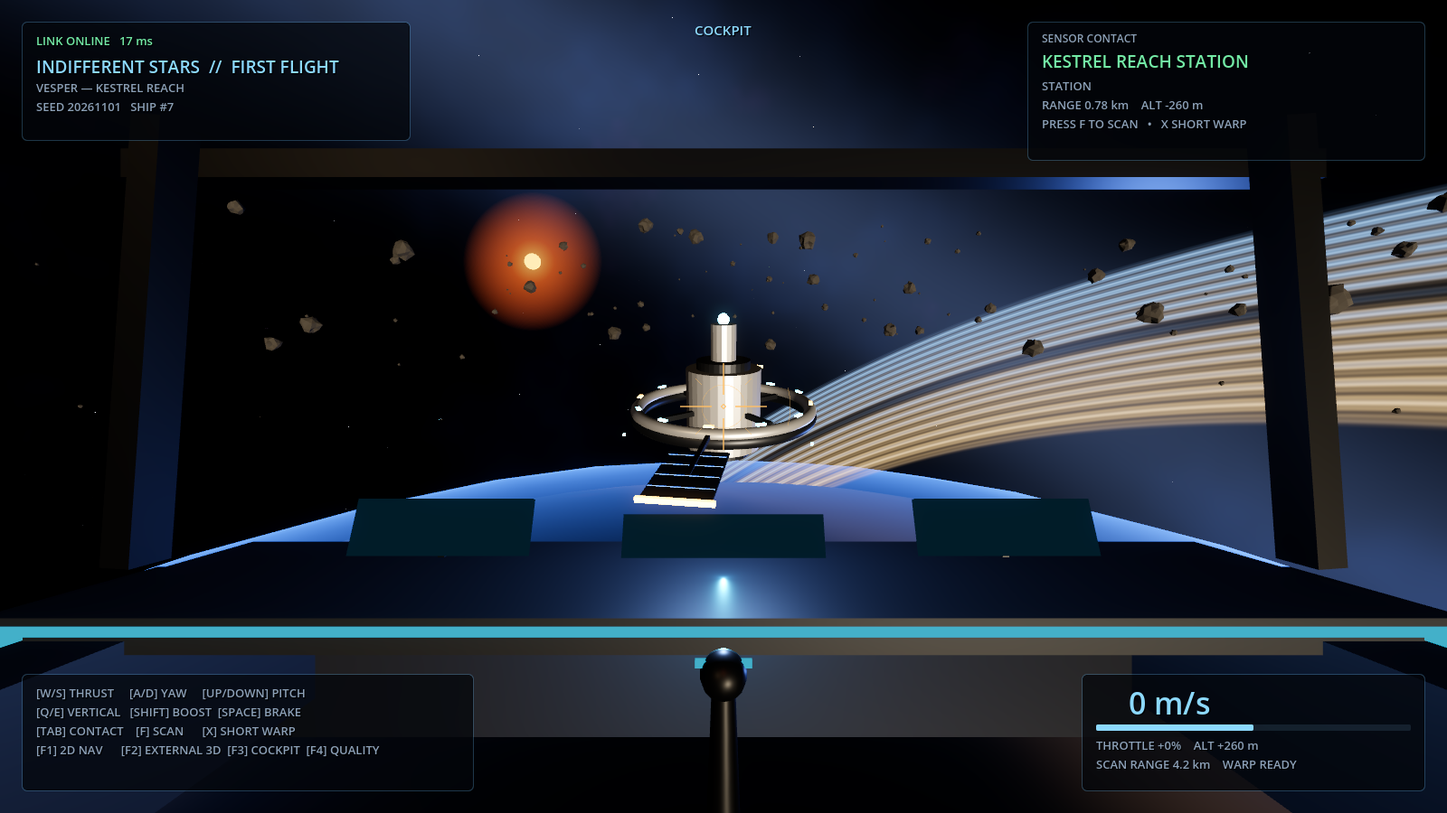
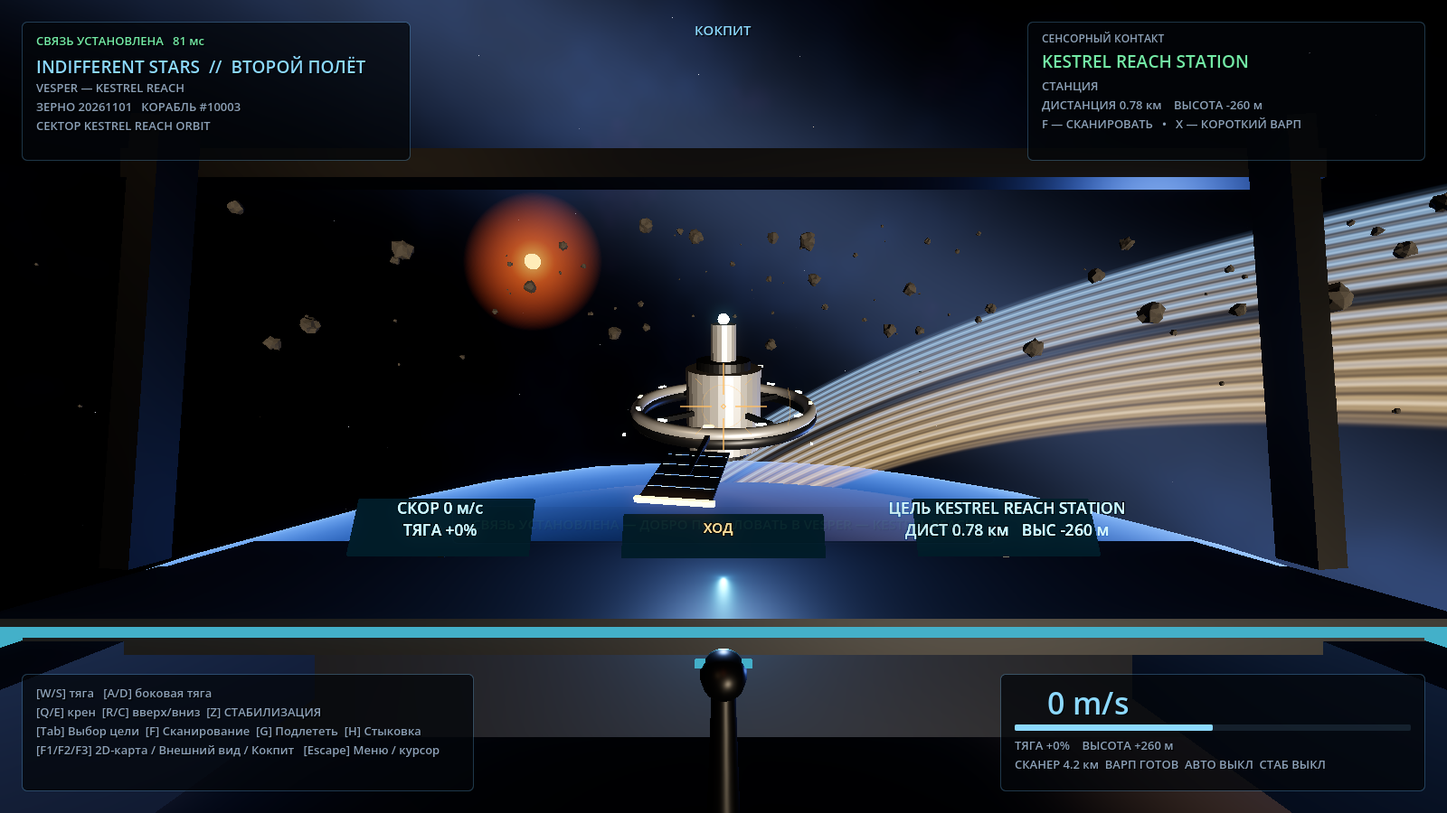
docs: describe Second Flight, trade, sectors and verification

diff --git a/docs/ARCHITECTURE.md b/docs/ARCHITECTURE.md
@@ -1,6 +1,6 @@
 # Indifferent Stars — техническая архитектура
 
-**Статус:** описывает фактическую реализацию M0 (First Flight) и направления развития.
+**Статус:** описывает фактическую реализацию M0 (Second Flight) и направления развития.
 Читать вместе с [GAME_DESIGN.md](GAME_DESIGN.md) и [первым заданием](tasks/001-foundation.md).
 
 ## 1. Разделение системы
@@ -30,16 +30,16 @@
 
 ## 2. Воспроизводимый цикл
 
-Сервер получает **намерения** (тяга, поворот, выбор цели, сканирование, варп), валидирует их и
-обновляет состояние по фиксированному таймеру **20 тиков/с**. Снимки отправляются **20 раз/с** и
-содержат номер тика, sequence и позицию/ориентацию всех кораблей сектора.
+Сервер получает **намерения** (тяга, поворот, выбор цели, сканирование, варп, сделки), валидирует
+их и обновляет состояние по фиксированному таймеру **20 тиков/с**. Снимки отправляются
+**20 раз/с** и содержат номер тика, sequence и позицию/ориентацию кораблей сектора.
 
 Клиент не отправляет координаты как истину и не интегрирует движение. Позиции интерполируются:
 **0.05 с** задержки для собственного корабля, **0.11 с** для остальных, чтобы сгладить сетевые
 колебания. Полётная модель аркадная: тяга изменяет скорость, без тяги скорость сохраняется;
 тормоз включает противотягу. Предел набора скорости — 260 м/с и 720 м/с на форсаже;
 отключение форсажа само по себе не уменьшает набранную скорость. Орбитальной механики нет.
-Ориентация корабля хранится кватернионом; протокол версии 7 передаёт ориентацию,
+Ориентация корабля хранится кватернионом; протокол версии 8 передаёт ориентацию,
 боковую тягу и крен. Клиент и сервер разных версий несовместимы.
 Включаемый `Z` flight assist ограниченной маневровой тягой гасит боковую и вертикальную
 составляющие скорости относительно носа. При ручной тяге по соответствующей оси она
@@ -56,12 +56,21 @@
 15 м от точки при скорости не выше 3 м/с. До этого автопилот использует обычную физику;
 ручное управление может перехватить сближение, не отменяя разрешения. Пока корабль
 пристыкован, сервер не применяет полётный ввод и запрещает варп. Отстыковка возвращает
-корабль в том же положении. Торговля и интерьеры пока недоступны.
+корабль в том же положении. Торговля доступна только пристыкованному кораблю.
+
+Торговля полностью серверная. Клиент отправляет `TradeRequest` (товар, количество,
+покупка/продажа), сервер проверяет стыковку, баланс, свободный трюм и склад станции,
+затем меняет кредиты, груз и склад и возвращает `TradeResult` с новым `MarketState`.
+Повтор запроса с тем же `RequestId` возвращает сохранённый ответ, поэтому повторная
+UDP-датаграмма не создаёт вторую сделку. Клиент не меняет баланс локально: он только
+показывает ответ сервера. Каталог товаров (`CommodityCatalog`) общий, цены фиксированы,
+трюм — 40 единиц, стартовый баланс — 5 000 кредитов. Сохранений между запусками нет.
 
 ## 3. Координаты и масштаб
 
 Иерархия адресации: **SystemId + SectorId + локальная позиция**. В M0 одна система
-`Vesper — Kestrel Reach` и один локальный сектор `kestrel-reach-orbit`.
+`Vesper — Kestrel Reach` и два смежных сектора в одной локальной системе координат:
+`kestrel-reach-orbit` (станция и ближний пояс) и `kestrel-reach-belt` (плотный пояс в 18 км).
 
 Три уровня координат:
 
@@ -71,8 +80,9 @@
 2. **Локальный сектор** — метры относительно `WorldCatalog.LocalFrameOrigin`, точки на
    орбите станции. В этой системе координат работают станция, астероиды, корабли и NPC;
    жёсткая граница движения отсутствует, дальность варпа — 21 км, сканера — 4.2 км.
-   `LocalFrameOrigin` переводит локальные координаты в системные. Сервер продолжает хранить
-   координаты в метрах `double`; разделение мира на активные области пока не реализовано.
+   `LocalFrameOrigin` переводит локальные координаты в системные. Оба сектора M0 лежат
+   в этом же локальном кадре и различаются центром и радиусом, а не отдельной сценой.
+   Сервер продолжает хранить координаты в метрах `double`.
 3. **Координаты отображения** — Godot `Vector3` (float32) вокруг наблюдателя. Клиент
    выбирает ближайшее начало с шагом 10 км, вычитает его из `double`-снимков до перевода
    в `float` и смещает камеру при смене начала. Проверка длительного полёта в реальном
@@ -93,9 +103,17 @@
 ### Сектора как единицы симуляции
 
 `SectorKind` (`Habitated`, `Planetary`, `Asteroid`, `DeepSpace`, `Unknown`) задаёт характер
-области. Сектор — единица интереса и оптимизации, но не граница мира: переход между
-секторами и межпланетный перелёт проектируются как смена активного сектора, а не загрузка
-отдельной сцены.
+области. `SectorDefinition` хранит id, имя, центр, радиус и статические тела. Сектор —
+единица интереса и оптимизации, но не граница мира: переход между секторами — смена
+активной области, а не загрузка отдельной сцены. Клиент определяет текущий сектор по
+позиции корабля (`SectorAt`) и показывает его в HUD; границы видны в 2D.
+
+Интерес реализован дистанционно и намеренно просто: `GameWorld.BuildSnapshot(viewerId)`
+включает собственный корабль зрителя всегда, а остальные корабли и NPC — только в пределах
+`WorldCatalog.RelevanceRange` (15 км). Сервер кодирует отдельный снимок для каждой сессии.
+Статические тела (астероиды, станция) строятся клиентом из общего каталога целиком: их
+немного, и они не передаются по сети. Это первый шаг к сенсорной модели, а не полноценный
+стриминг геометрии.
 
 ### Уровни путешествия
 
@@ -135,18 +153,23 @@
 
 ## 5. Протокол
 
-Собственный компактный бинарный протокол поверх UDP, версия **7**, без внешних зависимостей.
+Собственный компактный бинарный протокол поверх UDP, версия **8**, без внешних зависимостей.
 
 - `Hello` / `HelloAccepted` / `HelloRejected` — подключение и версия.
 - `Input` — намерения управления, выбранная цель, команды сканирования и варпа.
-- `Snapshot` — тик, sequence, корабли (позиция, ориентация, скорость, тяга, состояние).
+- `Snapshot` — тик, sequence, корабли (позиция, ориентация, скорость, тяга, состояние),
+  отфильтрованные по дистанции интереса для конкретного зрителя.
 - `ScanResult`, `WarpResult` — результат серверной проверки.
+- `DockRequest` / `DockResult` — стыковка и отстыковка.
+- `MarketRequest` / `MarketState` — баланс, трюм и склад станции для игрока.
+- `TradeRequest` / `TradeResult` — покупка и продажа с локализованным ответом.
 - `Disconnect` — явный выход; истёкшие сессии удаляются по таймауту.
 
 Ограничения: максимальный размер пакета, проверка версии, валидация длины и значений полей,
 проверка принадлежности корабля отправителю. Сервер отклоняет неизвестные цели, цели вне
-радиуса сканера (4.2 км), варп вне радиуса (21 км) и варп на кулдауне. Для localhost/LAN
-шифрование и аутентификация не заявляются.
+радиуса сканера (4.2 км), варп вне радиуса (21 км) и варп на кулдауне. Рыночные сообщения
+проверяют количество, известность товара, стыковку, баланс, свободный трюм и склад; размер
+списка товаров ограничен. Для localhost/LAN шифрование и аутентификация не заявляются.
 
 Если снимок не помещается в 1400 байт, сервер отправляет несколько пакетов с одним номером
 тика. Клиент обновляет полученные сущности независимо; потерянный пакет обновится следующим
@@ -167,11 +190,18 @@
 ```
 
 На сервере нет поля «текущий тип камеры». Переключение видов мгновенное и не меняет
-состояние корабля. Ввод, выбор цели, сканирование и варп доступны из любого вида;
+состояние корабля. Ввод, выбор цели, сканирование, варп и торговля доступны из любого вида;
 в 2D дополнительно показаны дистанции, азимуты и высота.
 
-Сенсоры и выбор цели — отдельная логика от камеры. Сейчас клиент видит объекты локального
-сектора; HUD спроектирован так, чтобы позже ограничить информацию по сенсорам.
+Сенсоры и выбор цели — отдельная логика от камеры. Сервер уже фильтрует снимки по дистанции
+интереса, но клиент по-прежнему строит все статические тела каталога. HUD спроектирован так,
+чтобы позже ограничить информацию по сенсорам.
+
+Кокпит — не отдельный режим: это та же камера с процедурным интерьером. Три `Label3D`-экрана
+показывают скорость, тягу, режим, цель, дистанцию и относительную высоту из тех же снимков,
+что и HUD, поэтому приборы не расходятся с остальными представлениями. Локализация одна:
+ключи `Locale` используются HUD, кокпитом, станцией и тактической картой; серверные тексты
+лежат в `IndifferentStars.Simulation/Texts`.
 
 ## 7. Художественный прототип
 
@@ -186,6 +216,9 @@
 Есть два пресета качества: `F4` переключает high/low, в low отключается bloom. Ориентир по
 GPU — Radeon RX 580 8 GB, Forward+. Конкретные значения FPS без измерений не заявляются.
 
+Двигатели: свечение и источник света дополнены конусными шлейфами, длина которых зависит от
+тяги и форсажа. Эффекты отключаются настройкой клиента и не влияют на серверную симуляцию.
+
 Настройки клиента сохраняются в `user://settings.cfg`: назначение клавиш, язык меню,
 мышь, адрес и позывной, параметры рендера и громкость отдельных аудиошин. Меню не
 останавливает авторитетный сервер. Музыка и синтезированные звуки живут в отдельном
@@ -193,11 +226,14 @@ GPU — Radeon RX 580 8 GB, Forward+. Конкретные значения FPS 
 
 ## 8. Проверки
 
-- `dotnet build` и `dotnet test` для независимых библиотек.
+- `dotnet build` и `dotnet test` для независимых библиотек: протокол, полёт, стыковка,
+  торговля, сектора и фильтрация снимков.
 - Headless-запуск сервера на Linux.
 - Godot-проект открывается, проходит импорт и компилирует C#.
 - Два клиента подключаются к одному серверу, видят друг друга и общие NPC.
 - Переключение 2D/3D/кокпит сохраняет позицию и скорость.
+- `--capture <dir>` снимает три представления для визуальной проверки; экран станции
+  проверяется отдельным превью.
 - Повторная проверка на localhost без интернета.
 - Команды запуска в `README.md` проверены на Debian Linux.
 
@@ -206,6 +242,7 @@ GPU — Radeon RX 580 8 GB, Forward+. Конкретные значения FPS 
 Не внедрять PostgreSQL, Kubernetes, репликацию, микросервисы и MMO-аккаунты до появления
 конкретной потребности. Мир M0 живёт в памяти.
 
-Следующие разумные шаги: приближение к планете с переходом в отдельный сектор, несколько
-секторов на систему с разной плотностью, межпланетный перелёт, сенсорная модель,
-сохранение мира. 300 игроков — цель нагрузочного стенда, а не текущая ёмкость.
+Следующие разумные шаги: сенсорная модель с честным сокрытием контактов, больше секторов и
+переход между ними без загрузки сцены, приближение к планете, межпланетный перелёт,
+сохранение мира и расширение экономики (динамические цены, несколько станций).
+300 игроков — цель нагрузочного стенда, а не текущая ёмкость.
